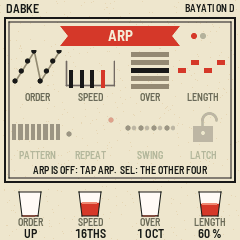
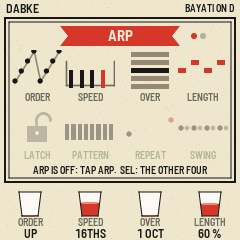
Manual and pictures for 0.22: each track's own delay, loops and the arpeggio as PLAY says, sounds without effects
The manual says 0.22 and has a What changed in 0.22 part before 0.21's. Each track's DELAY SEND starts at 0 and
the DELAY MIX at 30; the REVERB SENDs at 40 (tracks 1 to 3), 0 (track 4) and 12 (tracks 5 to 8), the REVERB MIX
at 60. The EFFECTS page's first row is DELAY TIME, REPEATS, DELAY MIX, REVERB MIX. A lead sound's loop and its
arpeggio play as its PLAY says; the CHORD order keeps its chords. A ready sound or a MY SOUND never changes the
effects, on track 1 too. ARP: a tap switches it, held 0.4 s its panel, whose second row is LATCH, PATTERN, REPEAT,
SWING. The home page's PLAYING row shows `--` on a track with no lead sound. A frozen one-note LEGATO track slides
with the GLIDE, and back to a key still down. HOME on KEEP THE SOUND opens the home page. Settings are saved only
when nothing sounds. Troubleshooting: no echo.

Saves, checked in the simulators (base a9423ea): a 0.21 song made and saved by 0.21's own simulator loads whole in
0.22 (3,667 values and the three state hashes as 0.21 reads them), and two 0.22 saves, a first start and that song
changed in 0.22, load whole in 0.21. Going back to 0.20 after 0.22 has saved is as after 0.21: each REVERB SEND
takes its DELAY SEND's value, so a track at 0.22's DELAY SEND of 0 has no reverb there. Said in Install, and in
Saving with a From 0.21 part.

Pictures: the 0.21 picture script gives every published picture pixel for pixel on 0.21's simulator. On 0.22 (the
[…]

diff --git a/docs/MANUAL.md b/docs/MANUAL.md
@@ -2,7 +2,9 @@
 
 DABKE is a free firmware for the M-VAVE FM-1 that makes it an Arabic wedding keyboard. It has lead voices with quarter tones on any note, a drone, bass and backing from the left hand, and a rhythm box of darbuka, tabl, riq, daf, sagat, kick and claps. Eight tracks loop or freeze what you play, and an Akai MIDImix can work as its mixer.
 
-**Status.** This is version 0.21, a free public beta from STUDIOMORPHIK. It has been tested on one FM-1.
+**Status.** This is version 0.22, a free public beta from STUDIOMORPHIK. It has been tested on one FM-1.
+
+**New in 0.22.** Each track's DELAY SEND is its own delay: every track starts out of it, and the EFFECTS page's first row is the whole song's DELAY TIME, REPEATS, DELAY MIX and REVERB MIX. A lead sound's loop and arpeggio play as its PLAY says, and picking a sound never changes the song's effects. If you played 0.21, read What changed in 0.22, below.
 
 **New in 0.21.** Turn a track's PITCH while its notes sound and they slide to the new pitch. The MIDImix's bottom knob and the home page's K3 are each track's own CHORUS now, and SPACE is on the EFFECTS page's SENDS row. If you played 0.20, read What changed in 0.21, below.
 
@@ -13,6 +15,27 @@ DABKE is a free firmware for the M-VAVE FM-1 that makes it an Arabic wedding key
 **New in 0.17.** Each of the eight tracks keeps its own sound, so SAZ on track 2 and BUZUQ TREMOLO on track 3 play at the same time. SELECT on a picked track offers the 22 ready sounds and your MY SOUNDs, and the SOUND and ORNAMENTS pages edit the picked track's sound. The effects, the tempo, the maqam and the rhythm are still shared by the whole song. Saves from 0.16 load and sound as they did.
 
 ![The home page with the rhythm running: the singer on stage, the eight tracks as lanes under him, the rhythm's name at the bottom](img/screen-home.png "The home page, the rhythm running")
+
+---
+
+## What changed in 0.22
+
+Each track's delay is its own, a lead sound's loop and arpeggio follow its PLAY, and a track's sound never changes the song's effects. Everything else is as in 0.21. Everything 0.21 saved loads whole, with its own sends and mixes (see Saving).
+
+| Part | In 0.21 | In 0.22 |
+| --- | --- | --- |
+| Loops | A lead sound's loop played as recorded, whatever its PLAY said | A lead sound's loop plays as its PLAY says. LEGATO: one note at a time, moving to the next with no new attack. MONO: one note at a time, each note struck. POLY: as recorded |
+| Arpeggio | It played every sound as POLY: on LEGATO or MONO its notes rang into each other | It plays as its track's PLAY says: one note at a time on LEGATO and MONO, sliding from note to note on LEGATO. The CHORD order keeps its chords |
+| Delay | The DELAY SENDs of tracks 1 to 3 started at 100, those of tracks 5 to 8 at 30, and the EFFECTS page's DELAY at 0, so DELAY turned all of them at once | Every track's DELAY SEND starts at 0, and the DELAY MIX at 30. A track's DELAY SEND turned up puts that track alone in the delay |
+| Reverb | The REVERB SENDs of tracks 1 to 3 started at 100, those of tracks 5 to 8 at 30, and the REVERB at 25 | Tracks 1 to 3 start at 40, track 4 at 0, tracks 5 to 8 at 12, and the REVERB MIX at 60. Each track's REVERB SEND counts, and a new song's reverb is about as before |
+| EFFECTS page | Row 1: DELAY, DELAY TIME, REPEATS, REVERB | Row 1: DELAY TIME, REPEATS, DELAY MIX, REVERB MIX, the whole song's delay and reverb |
+| Sounds | A ready sound or a MY SOUND picked on track 1 brought its effects: WEDDING ZURNA its PA, CASSETTE MIJWIZ its tape, SHAABI LEAD its echo | A track's sound never changes the song's effects, on track 1 too |
+| ARP | Held, it showed its panel, and let go with nothing turned, it switched the arpeggio on or off | A tap switches it on or off. Held 0.4 s, it shows its panel, and letting go changes nothing |
+| ARP panel | Second row: PATTERN, REPEAT, SWING, LATCH | Second row: LATCH, PATTERN, REPEAT, SWING. The SOUND page's row 6 is as it was |
+| Home page | Row 3, PLAYING, turned track 1's sound while a track with no lead sound was picked | There it shows `--`, and a knob turned says ONLY ON A LEAD SOUND and changes nothing |
+| Freezing | A key on a frozen track that plays one note at a time moved the note there at once | On LEGATO it slides there with the sound's GLIDE, and back to a key still down when you let go of the newest |
+| SAVE | HOME on KEEP THE SOUND left it, back to the page it was opened from | HOME on KEEP THE SOUND opens the home page |
+| Saving | Saved a few seconds after a change in a quiet moment, and a minute after it even while frozen notes sounded | Your settings are saved only when nothing sounds (no note, no frozen track, no rhythm, the sound faded out), so a save never interrupts the sound. Changes made while frozen notes play are saved once they stop |
 
 ---
 
@@ -94,7 +117,7 @@ You can also install DABKE with any FM-1 installer that takes a `.fwsc` package.
 
 To go back to another firmware, install that one the same way. When an installer starts writing over USB while DABKE runs, DABKE first saves anything it had not saved yet. When you install DABKE again, it goes on where you left it: its saves stay in the flash, unless the other firmware wrote over them (see below). To begin again from DABKE's first start instead, hold SAVE while you switch the FM-1 on (see Start fresh, in Saving).
 
-DABKE 0.21 loads what 0.20 and 0.19 saved, whole (see Saving). Going back to 0.20 after 0.21 has saved keeps the sounds, the loops, the steps and the locks. Each track's REVERB SEND then takes its DELAY SEND's value, the MASTER EQ goes flat, the MIXER's FX and the background's MUTE go back to how DABKE starts, and PLAY has no frozen tracks to bring back. DABKE 0.17 loads what 0.16 saved, and it sounds as it did. Going back to 0.16 after 0.17 has saved starts 0.16's settings fresh. The kept sounds stay.
+DABKE 0.22 loads what 0.21, 0.20 and 0.19 saved, whole (see Saving). Going back to 0.21 after 0.22 has saved keeps everything: 0.21 loads it whole and plays it its own way, its DELAY and REVERB at what 0.22's DELAY MIX and REVERB MIX were. Going back to 0.20 after 0.21 or 0.22 has saved keeps the sounds, the loops, the steps and the locks. Each track's REVERB SEND then takes its DELAY SEND's value, so a track left at 0.22's DELAY SEND of 0 has no reverb in 0.20. The MASTER EQ goes flat, the MIXER's FX and the background's MUTE go back to how DABKE starts, and PLAY has no frozen tracks to bring back. DABKE 0.17 loads what 0.16 saved, and it sounds as it did. Going back to 0.16 after 0.17 has saved starts 0.16's settings fresh. The kept sounds stay.
 
 > Some other FM-1 firmwares keep their saves in the same part of the flash as DABKE. After you install one of them, DABKE can start fresh when you come back to it, as on its first start.
 
@@ -120,7 +143,7 @@ DABKE 0.21 loads what 0.20 and 0.19 saved, whole (see Saving). Going back to 0.2
 | SEQ, tapped | The picked track's loop: it records, closes and plays, stops, plays again (see Loops). |
 | SEQ, held a second | The picked track's loop cleared. |
 | PLAY | Stops everything that sounds. Again: it all comes back. With nothing to bring back: the rhythm starts. While the rhythm runs, held 0.4 s: a fill-in (see PLAY). |
-| ARP | Tap it: the arpeggio on or off. Hold it: the arpeggio's panel. |
+| ARP | Tap it: the arpeggio on or off. Hold it 0.4 s: the arpeggio's panel, and letting go changes nothing. |
 | SAVE | KEEP THE SOUND: keeps a track's sound in one of eight places (see Saving). |
 | SELECT | On the home page: the picked track's sound. On the RHYTHM page: the rhythm. On the MAQAM page: the maqam, or on its TUNING row the note to tune. On the save page: the place. On any other page: the rows. |
 | PRESET | The rhythm. |
@@ -155,11 +178,11 @@ Row 1 is the picked track's strip as the MIDImix has it: its top knob, middle kn
 | FILTER | Left: DARK, a low-pass that closes down to 150 Hz. OPEN in the middle. Right: THIN, a high-pass that rises to 2.5 kHz. |
 | CHORUS | The track's own chorus, 0 to 100, 0 as DABKE starts. It makes the sound wider, left and right. A drum sound has none: its glass shows `--`, and turning it says TRACK 5: CHORUS ONLY ON A NOTE SOUND. |
 | LEVEL | The track's volume, 0 to 100. Track 2's is DRONE VOL. |
-| DELAY SEND | How much of the track goes into the delay, 0 to 100. |
-| REVERB SEND | How much of the track goes into the reverb, 0 to 100. |
+| DELAY SEND | How much of the track goes into the delay, 0 to 100, 0 as DABKE starts. It is the track's own: one track's DELAY SEND turned up puts that track alone in the delay. The DELAY MIX, on the EFFECTS page, sets how loud the delay is. |
+| REVERB SEND | How much of the track goes into the reverb, 0 to 100. As DABKE starts: 40 on tracks 1 to 3, 0 on track 4, 12 on tracks 5 to 8. The REVERB MIX, on the EFFECTS page, sets how loud the reverb is. |
 | BASS | LESS or MORE of the lows under 150 Hz, FLAT in the middle. |
 | SOUND | The track's sound, as SELECT on the home page turns it. |
-| Row 3 | HOW OFTEN, VIB DEPTH, GLIDE and ORNAMENT: the same knobs as on the SOUND and ORNAMENTS pages, for the sound those pages show (see The SOUND page). |
+| Row 3 | HOW OFTEN, VIB DEPTH, GLIDE and ORNAMENT of the picked track's lead sound: the same knobs as on the SOUND and ORNAMENTS pages (see The SOUND page). On a track with no lead sound they show `--`: a knob turned says ONLY ON A LEAD SOUND and changes nothing, and a step held gets no lock. |
 
 In step mode HOME shows the step view instead, with the row shown on K1 to K4 (see Steps and locks).
 
@@ -217,7 +240,7 @@ With SPLIT or BASS, those twelve keys are lit dim. In step mode LEFT KEYS does n
 
 ### Any sound on any track
 
-Turn SELECT on the home page to change the picked track's sound. SOUND, K4 of the home page's MIX row, does the same, and so do BANK LEFT and BANK RIGHT on the MIDImix. It goes through the track's own family first, then the others in this order: LEAD, DRONE, LEFT HAND, BASS, KICK, DARBUKA, CLAPS, RIQ. LEAD's sounds are the 22 ready sounds, then the MY SOUNDs you kept (see Sounds). On track 1 a lead sound brings its effects too. A note sound makes the track a track of notes: its keys play notes and it records loops. A drum sound makes it a drum track: its keys play drums and it records steps.
+Turn SELECT on the home page to change the picked track's sound. SOUND, K4 of the home page's MIX row, does the same, and so do BANK LEFT and BANK RIGHT on the MIDImix. It goes through the track's own family first, then the others in this order: LEAD, DRONE, LEFT HAND, BASS, KICK, DARBUKA, CLAPS, RIQ. LEAD's sounds are the 22 ready sounds, then the MY SOUNDs you kept (see Sounds). A sound never changes the song's effects, on track 1 too. A note sound makes the track a track of notes: its keys play notes and it records loops. A drum sound makes it a drum track: its keys play drums and it records steps.
 
 Each track keeps its own sound. SAZ on track 2 and BUZUQ TREMOLO on track 3 play at the same time, each with its own settings. The screen names a lead sound by its own name, as in TRACK 2: SAZ. A sound of another family whose name is shared gets its family in front, as in TRACK 2: DRONE ORGAN.
 
@@ -235,7 +258,7 @@ The ready sounds are MIJWIZ, MIJWIZ BUZZ, ZURNA, KEY LEAD, FAST LEAD, WHISTLE LE
 
 Each track keeps its own full sound: its instrument, the SOUND page's knobs (apart from VEL AMOUNT and the arpeggio), the vibrato and the ornaments. A track's LEVEL, sends, CHORUS, FILTER, BASS, PITCH and MUTE are its own too, and stay when its sound changes. The effects (the EFFECTS page's first three rows and the MASTER EQ), the tempo, the maqam, the rhythm, KEY TOUCH, PRESSURE, VEL AMOUNT and the arpeggio are shared by all the tracks.
 
-On track 1, a ready sound or a MY SOUND also sets the effects on the EFFECTS page's first three rows, as ALL did in 0.19: WEDDING ZURNA brings its PA and drive, CASSETTE MIJWIZ its tape wobble, age and hiss. On any other track it sets that track's sound alone and never the effects, because the effects work on the whole song. Picking a sound never changes another track's sound. The drone, the levels, the rhythm, the arpeggio and the maqam stay as they are.
+A ready sound or a MY SOUND sets the picked track's sound alone, on track 1 as on any other track. It never changes the effects, because they work on the whole song: WEDDING ZURNA, CASSETTE MIJWIZ and SHAABI LEAD bring no PA, tape or echo, and you set those on the EFFECTS page. Picking a sound never changes another track's sound. The drone, the levels, the rhythm, the arpeggio and the maqam stay as they are.
 
 ### The lead's instruments
 
@@ -467,6 +490,8 @@ Notes land on the nearest step of the rhythm, or of the arpeggio when it is on a
 
 A drum track records the drums you play on the keys, each hit on the step it falls on. It is yours from the first hit. With the rhythm stopped, your first hit starts it. A drum track's loop is its own steps: SEQ stops them and plays them again as it does a loop, and SEQ held a second gives the track back to the rhythm.
 
+A lead sound's loop plays as its PLAY says (the SOUND page, row 1, K2), as its keys do. On LEGATO it plays one note at a time, the note sounding moving to the next with the sound's GLIDE and no new attack. On MONO it plays one note at a time, each note struck. On POLY it plays as you played it, chords and all. A plucked sound on LEGATO is struck afresh, as its keys are. The loop keeps what you played, so with PLAY changed it plays the new way. Other note sounds play their loops as you played them.
+
 While a track records, turning its PITCH, FILTER, DELAY SEND, REVERB SEND or SPACE (on the home page, the EFFECTS page or its MIDImix knobs) is kept as locks on the steps the recording passes, so the move comes back with the loop. Its LEVEL and its CHORUS are not kept.
 
 The loops play whenever the rhythm runs, apart from those SEQ stopped. A track holds up to 128 notes, and all the tracks 512: past that, NO ROOM FOR MORE NOTES.
@@ -524,7 +549,7 @@ REC freezes the picked track: the notes of its keys down sound on after you let 
 
 On a frozen track:
 
-- A lead sound that plays one note at a time (PLAY on LEGATO or MONO, the arpeggio off): a key moves the frozen note to that key's note, with no new attack, and it stays frozen there.
+- A lead sound that plays one note at a time (PLAY on LEGATO or MONO, the arpeggio off): a key moves the frozen note to that key's note, with no new attack, and it stays frozen there. On LEGATO it slides there with the sound's GLIDE. Let go of that key while other keys of the track are still down, and it slides back to the last of them you pressed. When you let go of the last key, the note stays where it is. On MONO, and with BUZUQ, OUD and QANUN, it moves at once.
 - A POLY lead sound, the left hand and the bass line: each key you press is frozen too.
 - Press the key of a frozen note again and that note stops, while the others go on. When the last one stops, the screen says TRACK 1 LET GO and the track is no longer frozen.
 
@@ -560,9 +585,11 @@ The tracks PLAY stopped while frozen are kept with the settings: after the FM-1 
 
 Tap ARP to switch the arpeggio on or off (ARPEGGIO ON). It plays the keys you hold on a lead sound, track 1 or any track with a lead sound, a note at a time on its own grid. It keeps time with the rhythm when it runs, and with the tempo when not. Its notes keep their quarter tones, and a loop recorded on its track keeps them.
 
-Hold ARP for its panel: eight controls in two rows. The row on K1 to K4 is dark, with its values in the glasses, and the other row is faint. SEL or SELECT moves to the other row. Let go of ARP after using the panel and the arpeggio stays on or off as it was. The same eight are on the SOUND page, rows 5 and 6.
+It plays as its track's PLAY says (the SOUND page, row 1, K2). On LEGATO and MONO each new note ends the last. On LEGATO the note still sounding moves to the next with the sound's GLIDE and no new attack, and a plucked sound is struck afresh. On POLY each note sounds for its whole ARP LENGTH, over the next ones when it is long. The CHORD order plays its chords whatever PLAY says.
 
-![The arpeggio's panel: ORDER, SPEED, OVER and LENGTH on K1 to K4, at UP, 16THS, 1 OCT and 60 %; PATTERN, REPEAT, SWING and LATCH faint below them](img/arp-panel.png "ARP held: the arpeggio's panel")
+Hold ARP 0.4 s for its panel: eight controls in two rows, ORDER, SPEED, OVER and LENGTH, then LATCH, PATTERN, REPEAT and SWING. The row on K1 to K4 is dark, with its values in the glasses, and the other row is faint. SEL or SELECT moves to the other row. Let go of ARP and the arpeggio stays on or off as it was: only a tap switches it. The same eight are on the SOUND page, rows 5 and 6, where row 6 has LATCH on K4.
+
+![The arpeggio's panel: ORDER, SPEED, OVER and LENGTH on K1 to K4, at UP, 16THS, 1 OCT and 60 %; LATCH, PATTERN, REPEAT and SWING faint below them](img/arp-panel.png "ARP held: the arpeggio's panel")
 
 | Control | Choices |
 | --- | --- |
@@ -581,27 +608,31 @@ Hold ARP for its panel: eight controls in two rows. The row on K1 to K4 is dark,
 
 DABKE keeps everything you set by itself: every track's sound, every page's settings, the maqam, the rhythm and the tempo, each track's LEVEL, sends, CHORUS, FILTER, BASS, PITCH, MUTE and FX, the background's MUTE and FX, the MASTER EQ, the loops, the steps and the locks. They come back when the FM-1 starts.
 
-It writes them a few seconds after your last change, in a quiet moment: with the rhythm stopped, nothing recording, no key down and the sound faded. Writing to the flash stops the sound for a moment, which is why it waits. Frozen notes never fade, so then it writes a minute after the change. So before you switch the FM-1 off, press PLAY to stop everything and wait a few seconds.
+It writes them a few seconds after your last change, when nothing sounds: the rhythm stopped, nothing recording, no key down, no note sounding or frozen, and the sound faded out. Writing to the flash stops the sound for a moment, so it waits until nothing sounds, and a save never interrupts the sound. Changes made while frozen notes play are saved once they stop. So before you switch the FM-1 off, press PLAY to stop everything and wait a few seconds.
 
-Some things are not kept: step mode, the SOLOs, which loops SEQ stopped, the MIDImix's master fader and FADE's place. DABKE starts with step mode off, nothing soloed, every loop ready to play with the rhythm, the whole level full and FADE at 0. Nothing sounds when it starts. The tracks PLAY stopped while frozen are kept, and PLAY brings them back. A track still frozen and sounding when the FM-1 goes off is not kept.
+Some things are not kept: step mode, the SOLOs, which loops SEQ stopped, the MIDImix's master fader and FADE's place. DABKE starts with step mode off, nothing soloed, every loop ready to play with the rhythm, the whole level full and FADE at 0. Nothing sounds when it starts. The tracks PLAY stopped while frozen are kept, and PLAY brings them back. A track still frozen and sounding when the FM-1 goes off is not kept, and neither is what you changed while it sounded.
+
+### From 0.21
+
+DABKE 0.22 loads what 0.21 saved, whole. A song keeps its own sends and mixes, so its mix sounds as it did. A song from 0.21 most likely has tracks 1 to 3 sending 100 into the delay and the reverb and tracks 5 to 8 sending 30, as 0.21 started them, so there the DELAY MIX still moves the echo of every track at once. To start from 0.22's sends, hold FX a second on a track's SENDS row: its DELAY SEND goes to 0, its REVERB SEND to its start (40, 0 or 12) and its CHORUS to 0. On the background's SENDS row it puts the sends of every track with a drum sound at their starts. On DELAY AND REVERB it puts the DELAY MIX at 30 and the REVERB MIX at 60, with DELAY TIME and REPEATS at their starts. DABKE's first start and START FRESH begin with 0.22's starts.
 
 ### From 0.20
 
-DABKE 0.21 loads what 0.20 saved, whole. Each track's CHORUS starts at 0, so the tracks sound as they did.
+DABKE 0.22 loads what 0.20 saved, whole, as 0.21 did. Each track's CHORUS starts at 0, so the tracks sound as they did.
 
 ### From 0.19
 
-DABKE 0.21 loads what 0.19 saved, whole, as 0.20 did: every track's sound, the loops, the steps, the locks and the kept sounds. In 0.19 one send a track, EFFECT, fed both the delay and the reverb, so each track's REVERB SEND starts where its EFFECT was. The MASTER EQ starts flat and every track's effects in. With ALL picked in 0.19, DABKE opens on track 1.
+DABKE 0.22 loads what 0.19 saved, whole, as 0.20 and 0.21 did: every track's sound, the loops, the steps, the locks and the kept sounds. In 0.19 one send a track, EFFECT, fed both the delay and the reverb, so each track's REVERB SEND starts where its EFFECT was. The MASTER EQ starts flat and every track's effects in. With ALL picked in 0.19, DABKE opens on track 1.
 
 ### Keep a sound
 
 ![The save page: KEEP THE SOUND, eight places, place 3 picked](img/save.png "SAVE: the eight places")
 
-Press SAVE: the KEEP THE SOUND page shows eight places, red where a sound is kept, and opens on the first free one, slid out. Turn SELECT to pick a place (PLACE 3 FREE, or PLACE 3 USED) and press SAVE again: the screen says KEPT IN 3. On a used place, the first SAVE asks (PLACE 3 IS USED: SAVE AGAIN TO REPLACE), and SAVE again replaces it. HOME leaves without keeping. Any other button leaves too, and does its own job. SAVE keeps the sound the SOUND page shows: the picked track's, or track 1's (see The SOUND page).
+Press SAVE: the KEEP THE SOUND page shows eight places, red where a sound is kept, and opens on the first free one, slid out. Turn SELECT to pick a place (PLACE 3 FREE, or PLACE 3 USED) and press SAVE again: the screen says KEPT IN 3. On a used place, the first SAVE asks (PLACE 3 IS USED: SAVE AGAIN TO REPLACE), and SAVE again replaces it. HOME leaves without keeping and opens the home page. Any other button leaves too, and does its own job. SAVE keeps the sound the SOUND page shows: the picked track's, or track 1's (see The SOUND page).
 
 To load a kept sound, turn SELECT on the home page: the kept sounds come after the ready ones, as MY SOUND 1 to MY SOUND 8. It goes on the picked track.
 
-A kept sound holds a track's sound: its instrument and its settings, the vibrato and the ornaments. It also holds the effects on the EFFECTS page's first three rows, which come back only when you pick it on track 1. Picking a kept sound never changes another track's sound. A kept sound does not hold the loops, the steps, the rhythm or the maqam.
+A kept sound holds a track's sound: its instrument and its settings, the vibrato and the ornaments. Picking it changes that track's sound alone, never the effects or another track's sound. A kept sound does not hold the loops, the steps, the rhythm or the maqam.
 
 ### Start fresh
 
@@ -622,7 +653,7 @@ Press ENV. The SOUND page shapes one track's sound, and holds the arpeggio's con
 - With a track picked that plays a lead sound, that track's, as in TRACK 3 BUZUQ.
 - With a track picked that plays a drum, drone, left-hand or bass sound, track 1's, and the line says TRACK 1. INSTRUMENT there changes track 1. It never turns the picked track into a lead sound: SELECT on the home page does that (see Any sound on any track).
 
-VEL AMOUNT is shared by all the tracks, and so is the arpeggio on rows 5 and 6. The dots by the title show the row, the one shown in red. Each knob of the row has a picture, with the row's name under them. The home page's PLAYING row (HOW OFTEN, VIB DEPTH, GLIDE, ORNAMENT) changes the same sound.
+VEL AMOUNT is shared by all the tracks, and so is the arpeggio on rows 5 and 6. The dots by the title show the row, the one shown in red. Each knob of the row has a picture, with the row's name under them. The home page's PLAYING row (HOW OFTEN, VIB DEPTH, GLIDE, ORNAMENT) changes the same sound while the picked track has a lead sound. With any other sound on the picked track it shows `--` and changes nothing, and this page shows track 1's sound.
 
 ![The SOUND page, row 1: INSTRUMENT MIJWIZ, PLAY LEGATO, TONE 70, BUZZ 45](img/sound-1.png "Track 1's sound")
 ![The SOUND page, row 1, with track 3 picked: TRACK 3 BUZUQ under the title, INSTRUMENT BUZUQ, PLAY POLY, TONE 75, BUZZ 35](img/sound-track3.png "Track 3 picked, playing BUZUQ TREMOLO")
@@ -639,7 +670,7 @@ VEL AMOUNT is shared by all the tracks, and so is the arpeggio on rows 5 and 6. 
 | Knob | What it does |
 | --- | --- |
 | INSTRUMENT | The sound's instrument (see Sounds). Each comes with its own TONE, BUZZ, PIPES APART, BREATH, BODY, ATTACK, RELEASE, GLIDE and PLAY. |
-| PLAY | LEGATO: one note at a time; a key pressed while another is held moves the note there without starting it again (the plucked instruments start again). MONO: one note at a time, each key starts it again. POLY: chords. |
+| PLAY | LEGATO: one note at a time; a key pressed while another is held moves the note there without starting it again (the plucked instruments start again). MONO: one note at a time, each key starts it again. POLY: chords. The track's loop and its arpeggio play the same way (see Loops, and The arpeggio). |
 | TONE | 0 to 100: darker to brighter. |
 | BUZZ | 0 to 100: the reed's buzz. |
 | PIPES APART | 0 to 40 cents: how far apart two pipes are tuned, for the beating of a mijwiz. |
@@ -690,13 +721,13 @@ Press LFO. The vibrato and the ornaments, the drone, and a few settings. Rows 1 
 
 Press FX. FX again shows the next row, when you let go of it, and SELECT turns the rows too. Hold FX a second and the row shown goes back to its start values, as DABKE starts them: the screen says so, as in DELAY AND REVERB RESET, and the row stays shown.
 
-The first three rows and the MASTER EQ work on the whole song and are the same whichever track is picked. A ready sound or a MY SOUND picked on track 1 sets the first three rows; picked on any other track, it leaves them as they are. Rows 4 and 5 are the picked track's own, and their title says whose, as in TRACK 3 SENDS.
+The first three rows and the MASTER EQ work on the whole song and are the same whichever track is picked. A ready sound or a MY SOUND never changes them, on any track. Rows 4 and 5 are the picked track's own, and their title says whose, as in TRACK 3 SENDS.
 
-![The EFFECTS page, row 1: DELAY, DELAY TIME, REPEATS and REVERB](img/fx-1.png "The EFFECTS page, row 1")
+![The EFFECTS page, row 1: DELAY TIME, REPEATS, DELAY MIX and REVERB MIX, at 300 MS, 45, 30 and 60; the singer in the hall with his echoes](img/fx-1.png "The EFFECTS page, row 1")
 
 | Row | K1 | K2 | K3 | K4 |
 | --- | --- | --- | --- | --- |
-| 1 DELAY AND REVERB | DELAY | DELAY TIME | REPEATS | REVERB |
+| 1 DELAY AND REVERB | DELAY TIME | REPEATS | DELAY MIX | REVERB MIX |
 | 2 WEDDING PA | DRIVE | CHORUS | WEDDING PA | BRIGHTNESS |
 | 3 TAPE | WOBBLE | TAPE AGE | HISS | DELAY SYNC |
 | 4 SENDS | DELAY SEND | REVERB SEND | SPACE | CHORUS |
@@ -705,10 +736,10 @@ The first three rows and the MASTER EQ work on the whole song and are the same w
 
 | Knob | What it does |
 | --- | --- |
-| DELAY | 0 to 100: the echo's level. |
-| DELAY TIME | 60 to 700 ms. Changing it bends what is already in the echo, as a tape echo does. With DELAY SYNC on 1/8, 3/16 or 1/4 it shows `--`, and turning it says DELAY SYNC SETS THE TIME. |
+| DELAY TIME | 60 to 700 ms, 300 ms as DABKE starts. Changing it bends what is already in the echo, as a tape echo does. With DELAY SYNC on 1/8, 3/16 or 1/4 it shows `--`, and turning it says DELAY SYNC SETS THE TIME. |
 | REPEATS | 0 to 90. |
-| REVERB | 0 to 100: a hall. Each track's DELAY SEND and REVERB SEND set how much of it goes into the delay and into the reverb. |
+| DELAY MIX | 0 to 100, 30 as DABKE starts: how loud the delay is, for the whole song. Each track's DELAY SEND sets how much of that track goes into it. They start at 0, so turn a track's DELAY SEND up to hear its echo. |
+| REVERB MIX | 0 to 100, 60 as DABKE starts: how loud the reverb, a hall, is for the whole song. Each track's REVERB SEND sets how much of that track goes into it. |
 | DRIVE | 0 to 100: the lead, the drone and the left hand pushed into distortion. The bass and the drums stay clean. |
 | CHORUS, row 2 | 0 to 100: one chorus for the whole song, on the lead, the drone and the left hand. |
 | WEDDING PA | 0 to 100: the whole sound through a wedding hall's PA, with no lows, a horn's honk, pushed hard, with the hall's slap-back. |
@@ -851,7 +882,7 @@ DABKE reads the MIDImix as it comes from the factory, on channel 1.
 | Top knob | The track's PITCH: in tune in the middle, an octave down or up at the ends, in steps as PITCH STEPS says. A note sounding slides there (see The home page). | K1 on the home page |
 | Middle knob | The track's FILTER. | K2 on the home page |
 | Bottom knob | The track's CHORUS. A drum sound has none (TRACK 5: CHORUS ONLY ON A NOTE SOUND). | K3 on the home page, or CHORUS on the EFFECTS page's SENDS row |
-| SOLO | Tapped: the knobs' EFFECTS layer. The top knob is then the track's DELAY SEND, the middle knob DELAY TIME (the one delay all the tracks share: any strip's middle knob sets it), the bottom knob the track's REVERB SEND. BANK LEFT and RIGHT are lit while the knobs are on it. Tapped again: back. | The home page's MIX row; DELAY TIME on the EFFECTS page, row 1 |
+| SOLO | Tapped: the knobs' EFFECTS layer. The top knob is then the track's DELAY SEND, the middle knob DELAY TIME (the one delay all the tracks share: any strip's middle knob sets it), the bottom knob the track's REVERB SEND. Every DELAY SEND starts at 0: turn a strip's top knob up to put its track in the delay. BANK LEFT and RIGHT are lit while the knobs are on it. Tapped again: back. | The home page's MIX row; DELAY TIME on the EFFECTS page, row 1, K1 |
 | MUTE | The track muted, or on again. Lit while it is muted. | MUTE on the MIXER |
 | REC ARM | Freezes the track, or lets it go, as REC does. Lit while the track holds anything. | REC |
 | BANK LEFT, BANK RIGHT | The picked track's sound before or after. | SELECT on the home page |
@@ -883,6 +914,8 @@ Over the USB cable the FM-1 is also a sound card. Your computer can record DABKE
 
 **No sound.** Turn MASTER up, and the MIDImix's master fader if one is plugged in. A track's LEVEL is K4 on the home page, or its MIDImix fader. A muted track's lane is dimmed: switch it on with MUTE on the MIXER (the EDIT page's last row), or MUTE on the MIDImix. While any track is soloed, only the soloed ones are heard. The background's MUTE silences every track with a drum sound.
 
+**No echo.** Each track's DELAY SEND starts at 0. Turn it up on the home page's MIX row (K1), or with the strip's top knob on the MIDImix's EFFECTS layer. The DELAY MIX, K3 of the EFFECTS page's first row, sets how loud the echo is.
+
 **A note goes on after I let go.** The track is frozen, and REC is lit. Press that note's key again, or REC, to let it go. PLAY stops every frozen track.
 
 **SEQ does not record.** The track has a loop already, and SEQ stops it or plays it again. Hold SEQ a second to clear it, then tap SEQ to record.
@@ -895,7 +928,7 @@ Over the USB cable the FM-1 is also a sound card. Your computer can record DABKE
 
 **The MIDImix does nothing.** Set USB PORT to AUTO. With a computer on the port, the port stays the computer's. After the FM-1 starts, the port looks for a controller only after 30 seconds. Wait for CONTROLLER READY.
 
-**My changes were not kept.** DABKE saves only with the rhythm stopped and the sound quiet. Press PLAY to stop everything and wait a few seconds before you switch the FM-1 off.
+**My changes were not kept.** DABKE saves only when nothing sounds: the rhythm stopped, no note sounding or frozen, and the sound faded out. Press PLAY to stop everything and wait a few seconds before you switch the FM-1 off.
 
 **DABKE started fresh.** Another firmware installed since may have written over DABKE's saves (see Install).
 

diff --git a/README.md b/README.md
@@ -47,7 +47,7 @@ on the `dabke` branch of [wissamsader/fm1-base](https://github.com/wissamsader/f
     python3 base/tools/build.py app --host            # the host simulator
     ./run_tests.sh                                    # its tests: every one must say ok
     python3 base/tools/build.py app --web             # the browser version (needs Emscripten): app/build/emu/
-    python3 base/tools/build.py app --release 0.21    # the FM-1 package: app/build/dabke-0.21.fwsc
+    python3 base/tools/build.py app --release 0.22    # the FM-1 package: app/build/dabke-0.22.fwsc
 
 The FM-1 package needs JieLi's toolchain and AC79 SDK in a container; fm1-base's README explains the setup. The
 simulator and its tests need only a C compiler and Python 3.
